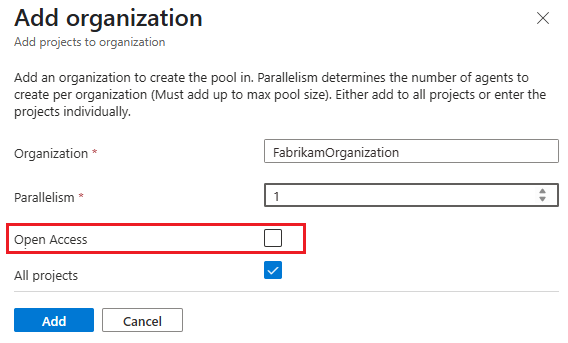
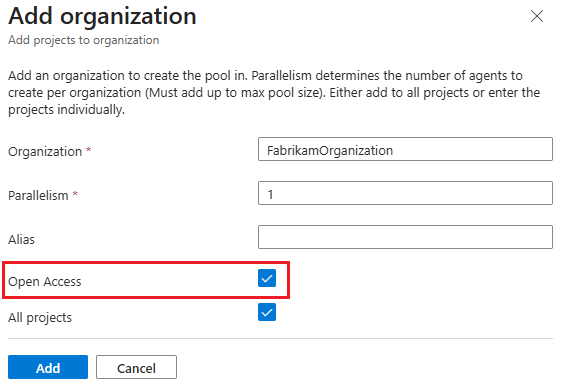
MDP Pool alias (#9388)
* MDP Pool alias

* Apply suggestions from code review

* Updates

* Update error

* Update screenshot

* Apply suggestions from code review

* Alias constraints

* Pool name globally unique in Azure

* Apply suggestions from code review

* Add CLI example to workFolder

* Add CLI, Bicep, ARM examples

* Format

* Apply suggestions from code review

* Format

* Working

* Working

* Apply suggestions from code review

* Format

* Consistency

* Format and date

* Ordered list examples

* providing

---------

diff --git a/docs/managed-devops-pools/configure-security.md b/docs/managed-devops-pools/configure-security.md
@@ -1,7 +1,7 @@
 ---
 title: Configure security
 description: Learn how to configure security settings for Managed DevOps Pools.
-ms.date: 11/18/2025
+ms.date: 07/01/2026
 ms.custom: sfi-image-nochange
 ms.topic: how-to
 ---
@@ -12,6 +12,152 @@ Learn how to configure security settings for Managed DevOps Pools. There are two
 
 * When you create a pool by using the **Security** tab
 * After you create a pool by using the **Security** settings pane
+
+## Configure pool aliases
+
+By default, the name of the agent pool in Azure DevOps is the same as your Managed DevOps Pool. You can specify a different name for the agent pool by configuring a pool alias. You can configure a top-level pool alias for all Azure DevOps organizations in your Managed DevOps Pool, or you can configure them on a per-organization basis.
+
+| Pool alias scope | Description |
+| --- | --- |
+| Top-level | This pool specifies the Azure DevOps agent pool name for all organizations in your Managed DevOps Pool. If you don't specify a top-level alias, the name of your Managed DevOps Pool is used as the Azure DevOps agent pool name. |
+| Organization-level | This pool alias specifies the Azure DevOps agent pool name for a specific organization in your Managed DevOps Pool. If you don't specify an organization-level alias, the top-level alias is used. If neither alias is specified, the name of your Managed DevOps Pool is used. |
+
+Aliases must be 128 characters or less, and must start with a letter or number, followed by letters, numbers, or hyphens, and must end with a letter or number.
+
+#### [Azure portal](#tab/azure-portal/)
+
+If you configure your Managed DevOps Pool for a single Azure DevOps organization, you can customize the name of the agent pool by providing a value for the **Alias** field. If you don't specify a value for **Alias**, the Managed DevOps Pool name is used.
+
+:::image type="content" source="./media/configure-security/configure-pool-alias.png" alt-text="Screenshot that shows how to configure a pool alias.":::
+
+If you configure your Managed DevOps Pool for multiple Azure DevOps organizations, you can customize the name of the agent pool on a per-organization basis by providing a value for the **Alias** field in each organization's settings. If you don't configure an organization-specific **Alias**, the top-level **Alias** is used. If neither **Alias** is configured, the Managed DevOps Pool name is used.
+
+:::image type="content" source="./media/configure-security/pool-alias-multiple-organizations.png" alt-text="Screenshot that shows how to configure a pool alias for multiple organizations.":::
+
+#### [ARM template](#tab/arm/)
+
+> [!NOTE]
+> The `alias` property is available starting with API version `2025-09-20`.
+
+You can configure a top-level pool `alias` in the `organizationProfile` section, and individual organization-level aliases by setting the `alias` property on the individual organizations in the `organizationProfile.organizations` list.
+
+The following example has a single organization, configured with a top-level pool alias of `fabrikam-pool`.
+
+```json
+"properties": {
+    ...
+    "organizationProfile": {
+        "alias": "fabrikam-pool",
+        "organizations": [
+            {
+                "url": "https://dev.azure.com/fabrikam-tailspin",
+                ...
+            }
+        ]
+    }
+}
+```
+
+The following example has two organizations, configured with a top-level pool alias of `fabrikam-pool`. The `fabrikam-tailspin` has an organization-level pool alias of `fabrikam-tailspin-pool`, so its Azure DevOps pool is named `fabrikam-tailspin-pool`. The `fabrikam-blue` organization doesn't have an organization-level alias, so its pool is named using the top-level alias.
+
+```json
+"properties": {
+    ...
+    "organizationProfile": {
+        "alias": "fabrikam-pool",
+        "organizations": [
+            {
+                "url": "https://dev.azure.com/fabrikam-tailspin",
+                "alias": "fabrikam-tailspin-pool"
+                ...
+            },
+            {
+                "url": "https://dev.azure.com/fabrikam-blue",
+                ...
+            }
+        ]
+    }
+}
+```
+
+#### [Azure CLI](#tab/azure-cli/)
+
+You can set the top-level `alias` and individual organization-level `alias` values by calling [az resource update](/cli/azure/resource#az-resource-update) using the following parameters.
+
+| Parameter | Description |
+|-----------|-------------|
+| `--ids` | The resource ID of the Managed DevOps Pool. |
+| `--set` | The property to update.<ul><li>To set the top-level `alias`, use `properties.organizationProfile.alias`.</li><li>If your Managed DevOps Pool is configured for multiple organizations, you can set an organization-level `alias` using `properties.organizationProfile.organizations[index].alias`, where `index` is the zero-based index of the organization in the `organizations` list.</li></ul> |
+
+The following example sets the top-level `alias` to `fabrikam-pool`.
+
+```bash
+az resource update \
+  --ids "/subscriptions/{subscriptionId}/resourceGroups/{resourceGroupName}/providers/Microsoft.DevOpsInfrastructure/pools/{poolName}" \
+  --set properties.organizationProfile.alias="fabrikam-pool"
+```
+
+This example sets the organization-level alias for the first organization in the organizations list to `fabrikam-tailspin-pool`.
+
+```bash
+az resource update \
+  --ids "/subscriptions/{subscriptionId}/resourceGroups/{resourceGroupName}/providers/Microsoft.DevOpsInfrastructure/pools/{poolName}" \
+  --set properties.organizationProfile.organizations[0].alias="fabrikam-tailspin-pool"
+```
+
+To view the ordered organizations list when your Managed DevOps Pool is configured for multiple organizations, go to your pool in the Azure portal, and go to **Settings** > **Security**. You can also retrieve the list by running the [az mdp pool show](/cli/azure/mdp/pool#az-mdp-pool-show) command.
+
+```bash
+az mdp pool show \
+  --name "{poolName}" \
+  --resource-group "{resourceGroupName}"
+```
+
+
+#### [Bicep](#tab/bicep/)
+
+> [!NOTE]
+> The `alias` property is available starting with API version `2025-09-20`.
+
+You can configure a top-level pool `alias` in the `organizationProfile` section, and individual organization-level aliases by setting the `alias` property on the individual organizations in the `organizationProfile.organizations` list.
+
+The following example has a single organization, configured with a pool alias of `fabrikam-pool`.
+
+```bicep
+properties: {
+    ...
+    organizationProfile: {
+        alias: 'my-pool-alias',
+        organizations: [
+            {
+                url: 'https://dev.azure.com/fabrikam-tailspin',
+                ...
+            }
+        ]
+    }
+```
+
+The following example has two organizations, configured with a top-level pool alias of `fabrikam-pool`. The `fabrikam-tailspin` has an organization-level pool alias of `fabrikam-tailspin-pool`, so its Azure DevOps pool is named `fabrikam-tailspin-pool`. The `fabrikam-blue` organization doesn't have an organization-level alias, so its pool is named using the top-level alias.
+
+```bicep
+properties: {
+    ...
+    organizationProfile: {
+        alias: 'fabrikam-pool',
+        organizations: [
+            {
+                url: 'https://dev.azure.com/fabrikam-tailspin',
+                alias: 'fabrikam-tailspin-pool'
+                ...
+            },
+            {
+                url: 'https://dev.azure.com/fabrikam-blue',
+                ...
+            }
+        ]
+    }
+```
+* * *
 
 ## Configure organization access
 
@@ -156,7 +302,7 @@ In the following example, the pool is configured to be available for the **Fabri
 
 :::image type="content" source="./media/configure-security/use-pool-multiple-organizations.png" alt-text="Screenshot that shows how to configure multiple organizations.":::
 
-If you receive an error like `The sum of parallelism for all organizations must equal the max concurrency`, ensure that the [Maximum agents](./configure-pool-settings.md#maximum-agents) count for the pool matches the sum of the **Parallelism** column.
+If you receive an error like `The sum of parallelism for all organizations must equal the max pool size`, ensure that the [Maximum agents](./configure-pool-settings.md#maximum-agents) count for the pool matches the sum of the **Parallelism** column.
 
 #### [ARM template](#tab/arm/)
 

diff --git a/docs/managed-devops-pools/configure-advanced-settings.md b/docs/managed-devops-pools/configure-advanced-settings.md
@@ -1,7 +1,7 @@
 ---
 title: Configure advanced settings
 description: Learn how to configure advanced settings in Managed DevOps Pools.
-ms.date: 12/17/2025
+ms.date: 07/01/2026
 ms.custom: sfi-image-nochange
 ms.topic: how-to
 ---
@@ -66,6 +66,21 @@ The `workfolder` property in the `runtimeConfiguration` section specifies the **
         }
     ]
 }
+```
+
+#### [Azure CLI](#tab/azure-cli/)
+
+You can set the `workFolder` value by calling [az resource update](/cli/azure/resource#az-resource-update) using the following parameters.
+
+| Parameter | Description |
+|-----------|-------------|
+| `--ids` | The resource ID of the Managed DevOps Pool. |
+| `--set` | The property to update, in this case `properties.runtimeConfiguration.workFolder`. |
+
+```bash
+az resource update \
+  --ids "/subscriptions/{subscriptionId}/resourceGroups/{resourceGroupName}/providers/Microsoft.DevOpsInfrastructure/pools/{poolName}" \
+  --set properties.runtimeConfiguration.workFolder="C:\\my-custom-work-folder"
 ```
 
 #### [Bicep](#tab/bicep/)

diff --git a/docs/managed-devops-pools/features-timeline.md b/docs/managed-devops-pools/features-timeline.md
@@ -1,7 +1,7 @@
 ---
 title: Features timeline and roadmap
 description: Learn about new features in Managed DevOps Pools.
-ms.date: 05/13/2026
+ms.date: 07/01/2026
 ms.topic: overview
 #Customer intent: As a platform engineer, I want to understand the new features in Managed DevOps Pools.
 ---
@@ -14,8 +14,6 @@ The following section describes new features in development for Managed DevOps P
 
 * **Purge agents**: We're adding the ability for you to manually recycle your agents if desired. **Planned for June 2026.**
 
-* **Pool Alias**: We're adding the ability to add an Azure DevOps Pool name in addition to the Azure resource name to address [this ask from our community](https://developercommunity.visualstudio.com/t/Managed-Devops-Pools-Custom-agent-pool/10834336). **Planned for June 2026.**
-
 * **Spot Virtual Machines instances**: Reduce your Azure cost [by up to 90%](/azure/architecture/guide/spot/spot-eviction#understand-spot-vm-pricing) by switching your non-time-critical pipelines to Spot Virtual Machines. CI/CD workloads make ideal candidates to use Spot Virtual Machines due to the ephemeral nature of CI/CD agents. For more information on Spot Virtual Machines, see [Spot Virtual Machines overview](https://azure.microsoft.com/products/virtual-machines/spot). **Planned for June 2026.**
 
 * **Custom Startup Script**: We are adding the option to run a PowerShell script (Windows) or a shell script (Linux) for every image in a pool before they are assigned to an agent, to enable scenarios such as installing Trusted root CAs and setting environment variables. **Planned for June 2026**.
@@ -23,6 +21,10 @@ The following section describes new features in development for Managed DevOps P
 * **Instance Mix**: Instance Mix allows you to specify multiple Virtual Machine sizes for a single Managed DevOps Pool. Instead of being limited to a single VM SKU, you can define up to five VM sizes, increasing the likelihood of successful provisioning and providing more flexibility in how compute resources are allocated across the pool. This feature is built on top of [Azure Virtual Machine Scale Sets Instance Mix capabilities](/azure/virtual-machine-scale-sets/instance-mix-overview) and primarily helps improve resiliency and provisioning reliability. **Planned for late 2026.**
 
 * **Container agents**: We're adding support for provisioning a container and starting the agent inside the container. **Planned for late 2026.**
+
+## June 2026
+
+* **Pool Alias**: You can add an Azure DevOps Pool name in addition to the Azure resource name to address [this ask from our community](https://developercommunity.visualstudio.com/t/Managed-Devops-Pools-Custom-agent-pool/10834336). For more information, see [Configure pool aliases](./configure-security.md#configure-pool-aliases).
 
 ## April 2026
 

diff --git a/docs/managed-devops-pools/quickstart-azure-cli.md b/docs/managed-devops-pools/quickstart-azure-cli.md
@@ -1,7 +1,7 @@
 ---
 title: Create a Managed DevOps Pool using Azure CLI
 description: Learn how to create a Managed DevOps Pool using Azure CLI.
-ms.date: 04/30/2025
+ms.date: 07/01/2026
 ms.topic: quickstart
 ms.custom: peer-review-program
 #Customer intent: As a developer, I want to learn how to create a Managed DevOps Pool using Azure CLI and run a pipeline in the new pool.
@@ -52,6 +52,9 @@ Open a command prompt (on Windows, use Windows Command Prompt or PowerShell) and
 ## Define environment variables
 
 1. Run the following commands to generate the names for the resources in this quickstart. This example uses the `EastUS2` region. Replace `EastUS2` with your desired region.
+
+   > [!IMPORTANT]
+   > The name of the Managed DevOps Pool, specified by the `POOL_NAME` variable in this example, must be globally unique in Azure.
 
     ```bash
     export REGION=EastUS2

diff --git a/docs/managed-devops-pools/quickstart-azure-portal.md b/docs/managed-devops-pools/quickstart-azure-portal.md
@@ -1,7 +1,7 @@
 ---
 title: Create a Managed DevOps Pool using the Azure portal
 description: Learn how to create a Managed DevOps Pool using the Azure portal.
-ms.date: 04/30/2025
+ms.date: 07/01/2026
 ms.topic: quickstart
 #Customer intent: As a developer, I want to learn how to create a Managed DevOps Pool using the Azure portal and run a pipeline in the new pool.
 ---
@@ -28,6 +28,9 @@ Before completing the steps in this article, you must configure your Azure subsc
 1. Specify the **Azure DevOps organization** you want to use with your pool, the name of the pool, and the region for your pool.
 
    :::image type="content" source="./media/get-started/azure-devops-organization-and-pool.png" alt-text="Screenshot of Azure DevOps organization field.":::
+
+   > [!IMPORTANT]
+   > The name of the Managed DevOps Pool must be globally unique in Azure.
 
    By default pools are configured for all projects in a single organization. You can configure additional organizations or limit the projects on the [Security](./configure-security.md) tab. Choose a region that is close to the other Azure resources you're using for [best cost and performance](./manage-costs.md#pool-region-co-location).
 